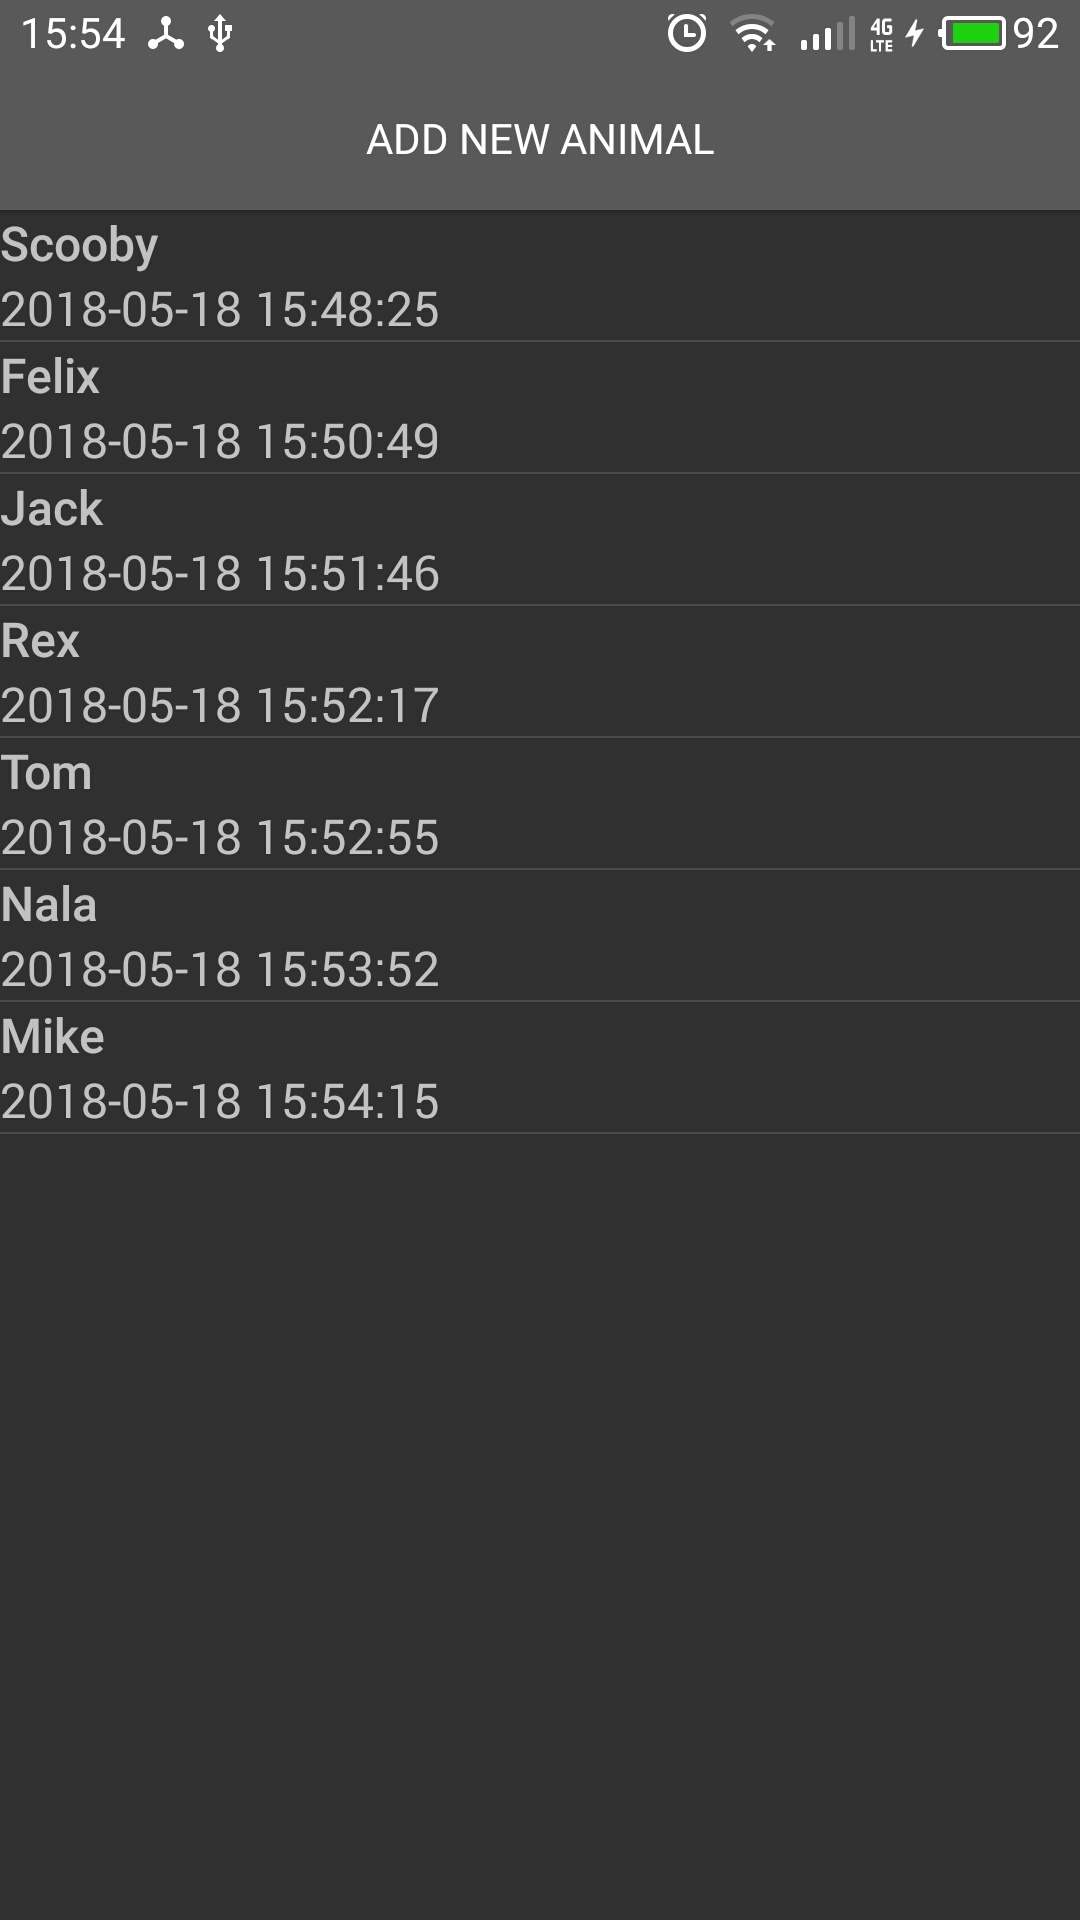
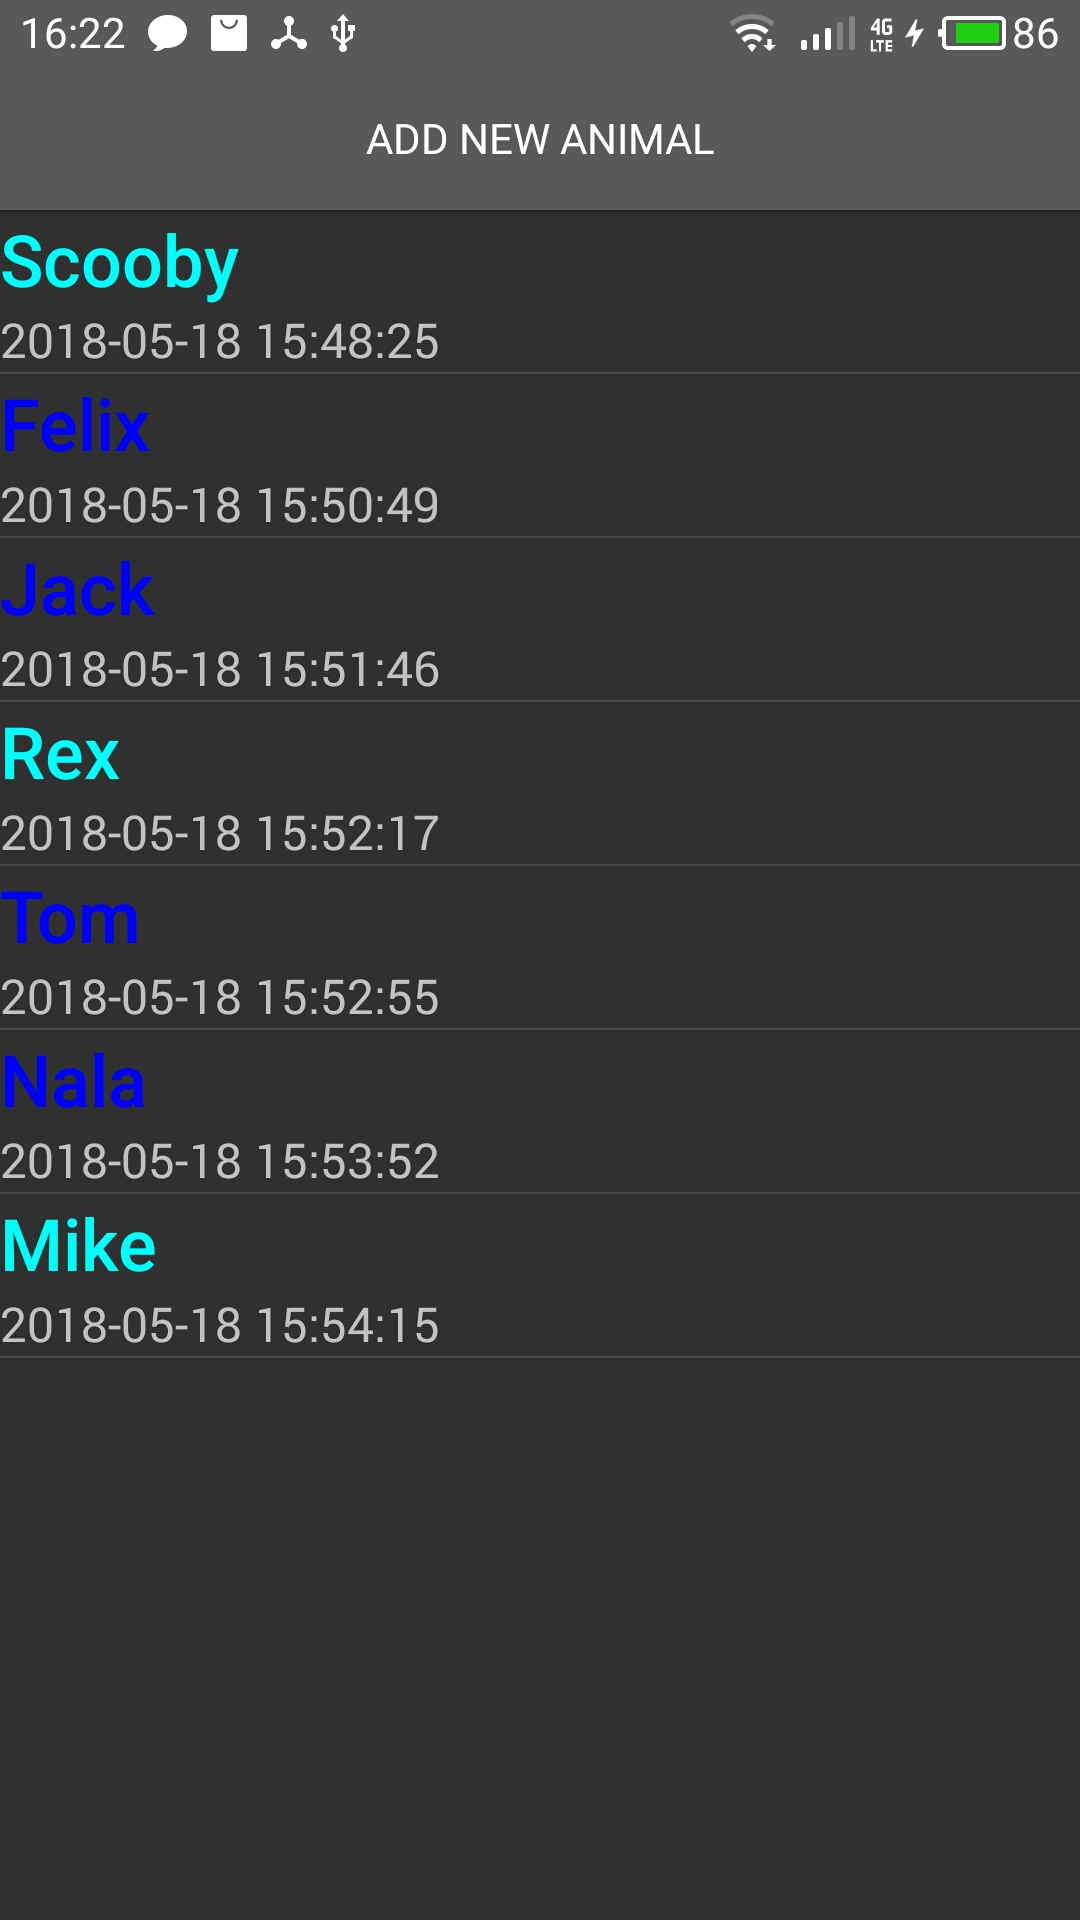
changing name color when the animal has chip  mAdapter.setViewBinder(new SimpleCursorAdapter.ViewBinder() {}

diff --git a/app/src/main/java/com/example/formacio/androidlocaldb/DatabaseActivity.java b/app/src/main/java/com/example/formacio/androidlocaldb/DatabaseActivity.java
@@ -5,6 +5,7 @@ package com.example.formacio.androidlocaldb;
         import android.content.Intent;
         import android.database.Cursor;
         import android.database.sqlite.SQLiteDatabase;
+        import android.graphics.Color;
         import android.os.Bundle;
         import android.view.View;
         import android.widget.AdapterView;
@@ -12,6 +13,8 @@ package com.example.formacio.androidlocaldb;
         import android.widget.EditText;
         import android.widget.ListView;
         import android.widget.SimpleCursorAdapter;
+        import android.widget.TextView;
+
         import java.text.SimpleDateFormat;
         import java.util.Date;
 
@@ -78,6 +81,23 @@ public class DatabaseActivity extends Activity  {
                 DbHelper.COL_CHIP,DbHelper.COL_TYPE,DbHelper.COL_PHOTO};
         mAdapter = new SimpleCursorAdapter(this, android.R.layout.two_line_list_item,
                 mCursor, headers, new int[]{android.R.id.text1, android.R.id.text2});
+
+        mAdapter.setViewBinder(new SimpleCursorAdapter.ViewBinder() {
+            public boolean setViewValue(View view, Cursor cursor, int columnIndex) {
+                if(columnIndex == 1) {
+                    TextView text = (TextView) view;  // get your View
+                    text.setText(mCursor.getString(mCursor.getColumnIndexOrThrow(DbHelper.COL_NAME)));
+                    text.setTextColor(Color.rgb(0,255,255));
+                    text.setTextSize(24);
+                    if(mCursor.getString(mCursor.getColumnIndexOrThrow(DbHelper.COL_CHIP)).toString().equalsIgnoreCase("yes"))
+                        text.setTextColor(Color.BLUE);
+                }
+                return false;
+            }
+        });
+
+
+
         mList.setAdapter(mAdapter);
 
 
